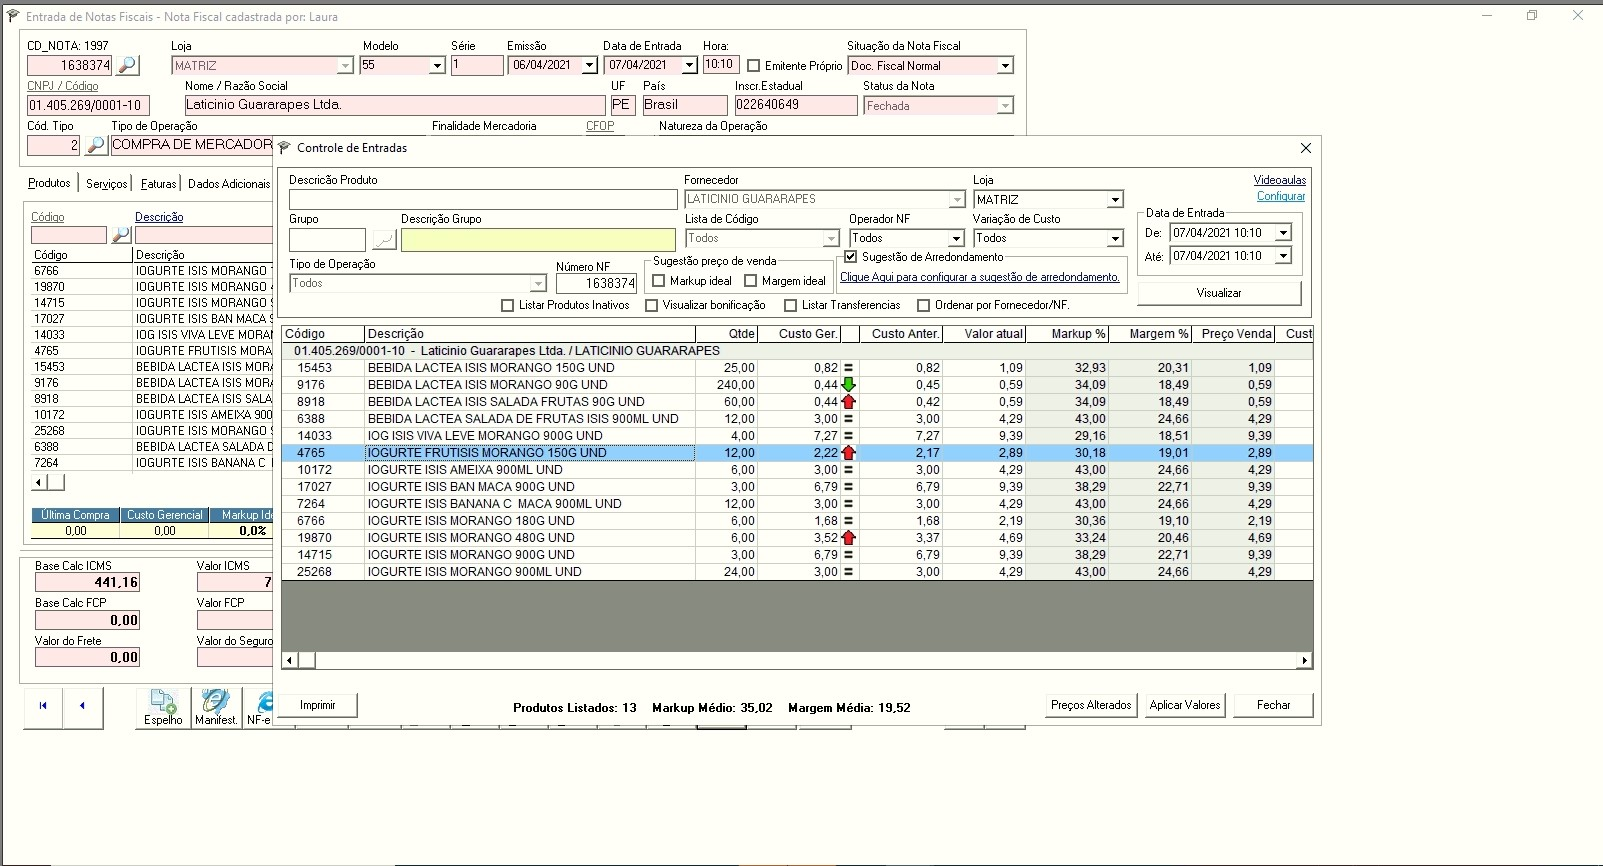
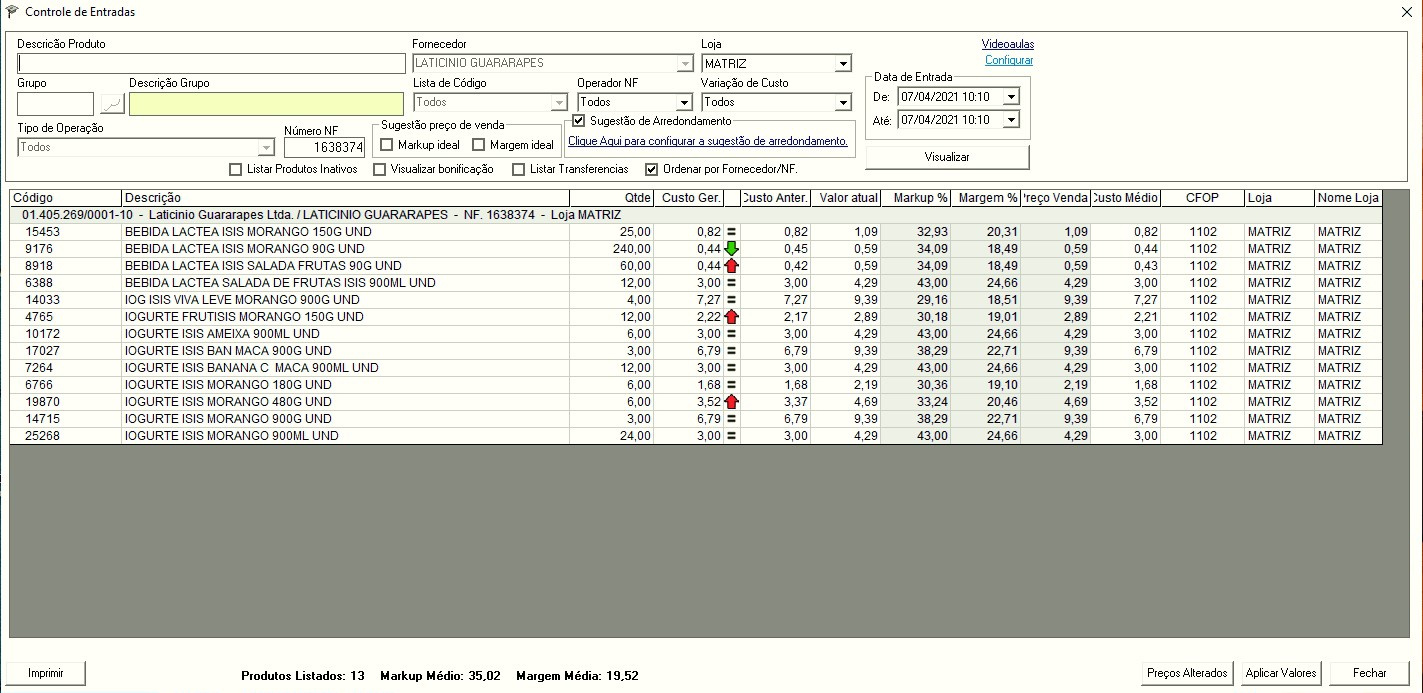
2ª versão do protótipo para o controle de entradas

diff --git a/Analise_24_Maio_2021_AtacadoWeb.md b/Analise_24_Maio_2021_AtacadoWeb.md
@@ -1,34 +1,108 @@
 ## Controle de entradas
-1. Maximizar a tela do controle de entradas para podermos visualizar mais colunas
 
-    ![](https://github.com/Rodrigo80221/AnalisesDeSoftware/blob/main/Imagens/AtacadoWEB/Maximizar.jpg?raw=true)
+1. Maximizar a tela do controle de entradas para podermos visualizar mais colunas
+![](https://github.com/Rodrigo80221/AnalisesDeSoftware/blob/main/Imagens/AtacadoWEB/Maximizar.jpg?raw=true)
+
+---
 
 1. Arrumar colunas "Lojas" e "Nome da Loja"
+![](https://github.com/Rodrigo80221/AnalisesDeSoftware/blob/main/Imagens/AtacadoWEB/ColunaLojaNomeDaLoja.jpg?raw=true)    
 
-    ![](https://github.com/Rodrigo80221/AnalisesDeSoftware/blob/main/Imagens/AtacadoWEB/ColunaLojaNomeDaLoja.jpg?raw=true)    
 
-1. Inserir checkbox "Listar descontos para atacado"
-1. Ao marcar o check box listar os produtos que possuem desconto para atacado e estão listados no grid
+---
+
+1. Criar configuração de arredondamento igual a tela Desconto Atacado (ou reduzido)
+
+
+
+
+
+
+
+
+
+
+---
+
+
+
+1. Se a configuração estiver marcada listar os packs existentes na tela para cada produto
+    - [x] Exibir Preços de Atacado
+
+
+
+1. Ao marcar o check box listar os produtos que possuem desconto para atacado conforme os filtros
+
+
 1. Permitir editar a quantidade da regra 
+1. Permitir editar a porcentagem da regra 
 1. Ao alterar o preço de venda deve alterar a porcentagem, ao alterar a porcentagem deve alterar o preço de venda (margem e markup andam juntas)
 1. Se estiver marcado a sugestão de arredondamento deve ser utilizada também para o pack virtual
 1. Deve atualizar dinamicamente a descrição do pack
 1. Ao salvar o pack deve salvar em um pack com a mesma descrição e regras ou criar outro
+![](https://github.com/Rodrigo80221/AnalisesDeSoftware/blob/main/Imagens/AtacadoWEB/ListarPacks4.jpg?raw=true)
 
-    ![](https://github.com/Rodrigo80221/AnalisesDeSoftware/blob/main/Imagens/AtacadoWEB/ListarPacks4.jpg?raw=true)
 
+
+
+---
+
+![](https://github.com/Rodrigo80221/AnalisesDeSoftware/blob/main/Imagens/AtacadoWEB/ListarPacks5.jpg?raw=true)
 1. Adicionar menu no produto "Inserir desconto para atacado (%)"
+1. Exibir input box para exibir a quantidade e porcentagem inicial
 
-    ![](https://github.com/Rodrigo80221/AnalisesDeSoftware/blob/main/Imagens/AtacadoWEB/ListarPacks5.jpg?raw=true)
+---
+
+1. Destaque da cor da linha
+    * Atualmente os packs e as promoções são destacados com verde, será mantida a mesma cor???
+    * O procedimento para colorir a linha está bem ruim, pisca muito
+    * Colocar uma legenda
+
+
+
+---
+
 
 1. Criar configurações para colunas visualizadas
 
 
 
 
+---
+
+
+Tratamento para produtos associados
 
 
 
+Item que está na promoção não deverá sofrer alteração percentual no preço de venda
+ * Tratar na exportação para o Te levo
+ * Tratar no PDV 
+
+
+
+
+
+
+qtd atacado
+
+
+
+
+mais para frente padronizar as configurações de arredondamento
+
+
+ajustar o arredondamento e o percentual para ficar número cheio 3,89 / 10%
+
+se alterar o produto pai , altera o percentual do filho
+
+o valor atual é diferente na linha do  pack 
+
+tirar os custos da linha do pack , cfop , loja, tirar o simbolo também 
+
+sugerir a quantidade a partir do fornecedor da nota, no imputbox , o índio vai utilizar 
+
+remover pack 
 
 
 
